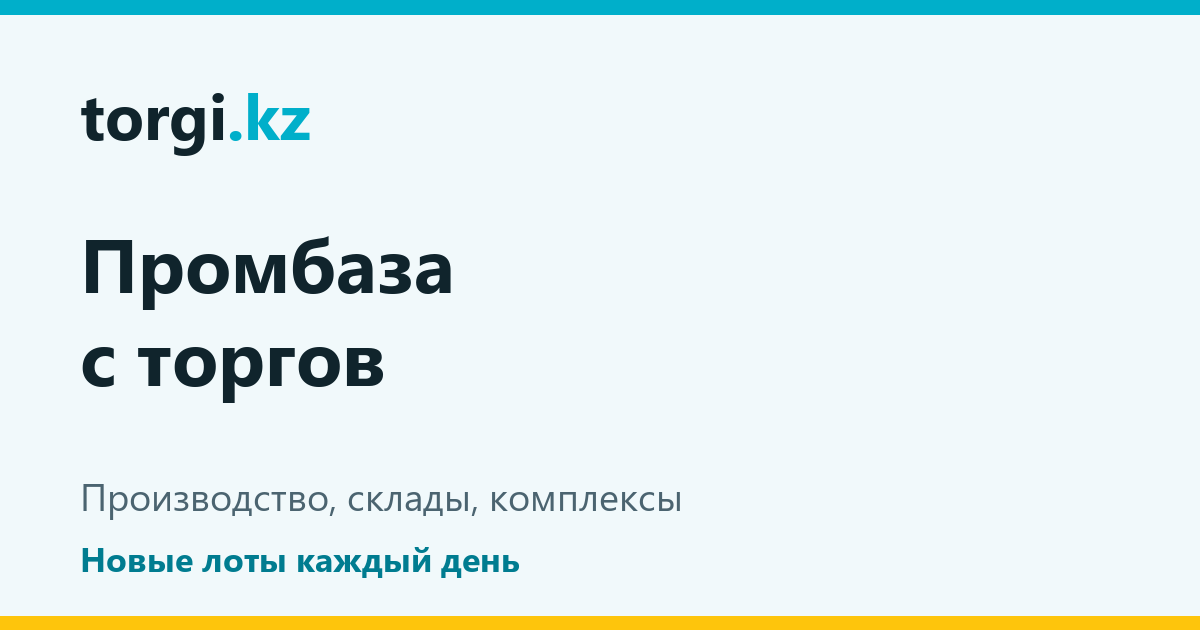
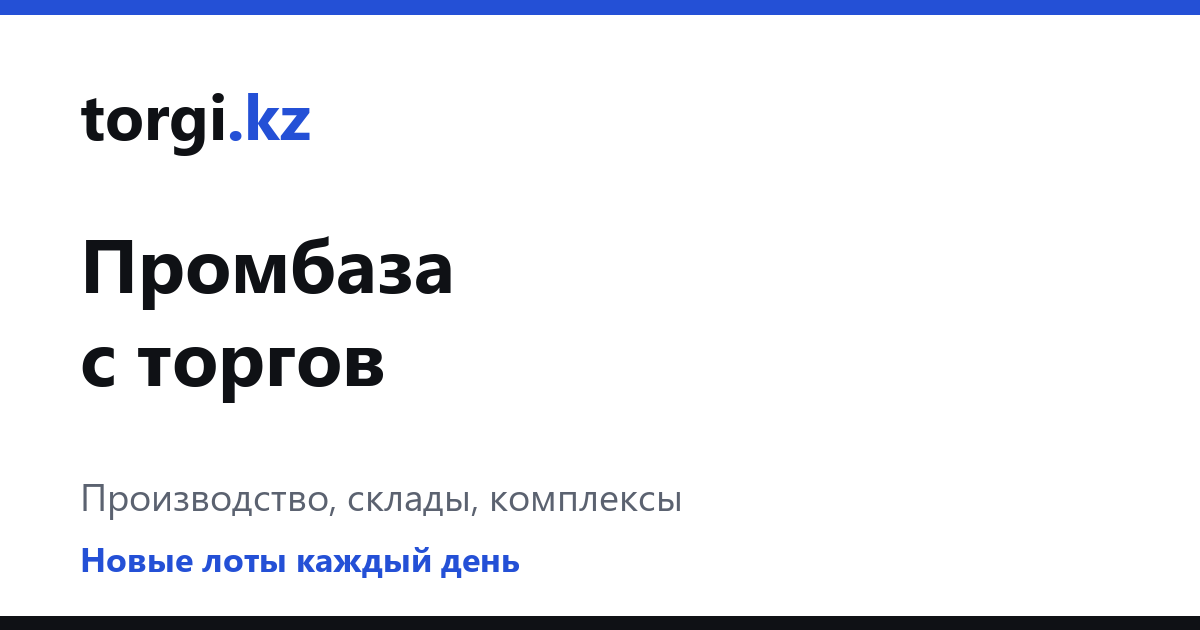
Палитра «монохром и кобальт»: чёрные кнопки, кобальтовые ссылки и бейджи, красный для снижения цены

diff --git a/web/src/app/page.tsx b/web/src/app/page.tsx
@@ -50,7 +50,7 @@ export default function Home() {
             <input
               name="q"
               placeholder="Город или улица"
-              className="flex-1 rounded-[10px] border border-border bg-white px-4 py-3 text-foreground shadow-card outline-none placeholder:text-muted focus:border-brand focus:ring-2 focus:ring-brand/20"
+              className="flex-1 rounded-[10px] border border-border bg-white px-4 py-3 text-foreground shadow-card outline-none placeholder:text-muted focus:border-brand-ink focus:ring-2 focus:ring-brand-ink/20"
             />
             <button className="rounded-[10px] bg-brand px-6 py-3 font-semibold text-white hover:bg-brand-hover">
               Найти
@@ -61,7 +61,7 @@ export default function Home() {
               <Link
                 key={c.id}
                 href={`/lots/?category=${c.id}`}
-                className="rounded-full border border-border bg-white px-4 py-1.5 text-sm text-foreground hover:border-brand hover:text-brand-ink"
+                className="rounded-full border border-border bg-white px-4 py-1.5 text-sm text-foreground hover:border-brand-ink hover:text-brand-ink"
               >
                 {CATEGORY_PLURAL[c.id] ?? c.title} <span className="text-muted">{c.count}</span>
               </Link>
@@ -79,9 +79,9 @@ export default function Home() {
           <div className="grid grid-cols-1 gap-3 sm:grid-cols-2 lg:grid-cols-3">
             {quick.map((q) => (
               <Link key={q.query} href={`/lots/?${q.query}`}
-                    className="flex items-center justify-between gap-3 rounded-xl border border-border bg-surface p-4 hover:border-brand/40">
+                    className="flex items-center justify-between gap-3 rounded-xl border border-border bg-surface p-4 hover:border-brand-ink/40">
                 <span className="font-medium">{q.title}</span>
-                <span className="rounded-full bg-brand/10 px-2.5 py-0.5 text-sm font-semibold text-brand-ink">{q.count}</span>
+                <span className="rounded-full bg-brand-ink/10 px-2.5 py-0.5 text-sm font-semibold text-brand-ink">{q.count}</span>
               </Link>
             ))}
           </div>
@@ -125,7 +125,7 @@ export default function Home() {
             <Link
               key={s.id}
               href={`/lots/?source=${s.id}`}
-              className="rounded-xl border border-border bg-surface p-4 hover:border-brand/40"
+              className="rounded-xl border border-border bg-surface p-4 hover:border-brand-ink/40"
             >
               <div className="text-sm font-semibold">{s.title}</div>
               <div className="mt-1 text-2xl font-bold text-brand-ink">{s.count}</div>

diff --git a/web/src/app/globals.css b/web/src/app/globals.css
@@ -1,20 +1,21 @@
 @import "tailwindcss";
 
-/* Палитра общая с ipoteka24.kz: бирюза и золото флага Казахстана, тёмный сине-зелёный текст. */
+/* Палитра «монохром и кобальт»: почти чёрный текст и кнопки, кобальт — ссылки, «.kz» и бейджи,
+   красный — только «цена снижена» и предупреждения. Светло-серая подложка, белые карточки. */
 :root {
-  --background: #f1f9fb;
+  --background: #f6f7f9;
   --surface: #ffffff;
-  --surface-2: #e9f6f9;
-  --foreground: #10242c;
-  --muted: #5a6b72;
-  --border: #d2e6ec;
-  --brand: #00afca; /* бирюза: кнопки, «.kz» в логотипе, акценты */
-  --brand-hover: #0092aa;
-  --brand-ink: #007c90; /* бирюза для текста и ссылок — читается на белом */
-  --accent: #fec50c; /* золото: плашки «цена снижена», выделения */
-  --accent-ink: #957200; /* золото для текста на светлом фоне */
-  --success: #0a8f3c;
-  --shadow: 0 10px 30px rgba(16, 60, 80, 0.1);
+  --surface-2: #eef0f3;
+  --foreground: #0f1115;
+  --muted: #6b6f78;
+  --border: #e4e6ea;
+  --brand: #0f1115; /* основные кнопки */
+  --brand-hover: #2b2f37;
+  --brand-ink: #2450d6; /* кобальт: ссылки, «.kz», бейджи, фокус */
+  --accent: #d93036; /* красный: плашка «−N%», счётчик избранного */
+  --accent-ink: #b4282d;
+  --success: #1f7a4d;
+  --shadow: 0 8px 24px rgba(15, 17, 21, 0.08);
 }
 
 @theme inline {
@@ -39,17 +40,14 @@ body {
   color: var(--foreground);
 }
 
-/* Фон главного блока — как на ipoteka24.kz: мягкие пятна бирюзы и золота на белом */
+/* Фон главного блока — ровный белый, без пятен */
 .hero-bg {
-  background:
-    radial-gradient(900px 420px at 82% -10%, rgba(0, 175, 202, 0.18), transparent),
-    radial-gradient(760px 420px at 0% 25%, rgba(254, 197, 12, 0.16), transparent),
-    linear-gradient(160deg, #f1f9fb, #ffffff);
+  background: #ffffff;
 }
 
 .field {
   @apply w-full rounded-lg border border-border bg-surface px-3 py-2 text-sm outline-none
-    focus:border-brand focus:ring-2 focus:ring-brand/20;
+    focus:border-brand-ink focus:ring-2 focus:ring-brand-ink/20;
 }
 
 .label {

diff --git a/web/src/components/DetailsView.tsx b/web/src/components/DetailsView.tsx
@@ -56,7 +56,7 @@ export function LotDetailsView({ details, isAuction, note }: {
         )}
         {details.lat && details.lon ? (
           <a href={`https://2gis.kz/geo/${details.lon},${details.lat}`} target="_blank" rel="noopener noreferrer"
-             className="flex-1 rounded-lg border border-border px-4 py-3 text-center text-sm font-medium hover:border-brand/40">
+             className="flex-1 rounded-lg border border-border px-4 py-3 text-center text-sm font-medium hover:border-brand-ink/40">
             Показать на карте 2ГИС
           </a>
         ) : null}
@@ -70,8 +70,8 @@ export function LotDetailsView({ details, isAuction, note }: {
             {documents.map((doc) => (
               <li key={doc.url}>
                 <a href={doc.url} target="_blank" rel="noopener noreferrer"
-                   className="group flex items-start gap-2 rounded-lg border border-border px-3 py-2 hover:border-brand/50">
-                  <svg aria-hidden viewBox="0 0 24 24" className="mt-0.5 h-4 w-4 flex-none text-brand" fill="none" stroke="currentColor" strokeWidth="2">
+                   className="group flex items-start gap-2 rounded-lg border border-border px-3 py-2 hover:border-brand-ink/50">
+                  <svg aria-hidden viewBox="0 0 24 24" className="mt-0.5 h-4 w-4 flex-none text-brand-ink" fill="none" stroke="currentColor" strokeWidth="2">
                     <path d="M14 3H7a2 2 0 0 0-2 2v14a2 2 0 0 0 2 2h10a2 2 0 0 0 2-2V8z" /><path d="M14 3v5h5" />
                   </svg>
                   <span className="flex-1 group-hover:text-brand-ink">{doc.title}</span>
@@ -117,7 +117,7 @@ export function LockedDetails({ message, children }: { message?: React.ReactNode
         <div className="h-4 w-3/4 rounded bg-border" />
         <div className="h-4 w-1/2 rounded bg-border" />
         <div className="h-4 w-2/3 rounded bg-border" />
-        <div className="h-10 w-full rounded-lg bg-brand/30" />
+        <div className="h-10 w-full rounded-lg bg-brand-ink/30" />
         <div className="h-4 w-5/6 rounded bg-border" />
         <div className="h-4 w-3/5 rounded bg-border" />
       </div>

diff --git a/web/src/app/lots/[id]/page.tsx b/web/src/app/lots/[id]/page.tsx
@@ -89,7 +89,7 @@ export default async function LotPage({ params }: PageProps<"/lots/[id]">) {
       )}
 
       {lot.duplicate_of && (
-        <div className="mt-4 rounded-lg border border-brand/30 bg-brand/5 p-3 text-sm">
+        <div className="mt-4 rounded-lg border border-brand-ink/30 bg-brand-ink/5 p-3 text-sm">
           Этот же объект (совпадает кадастровый номер) продаётся и у другого источника —{" "}
           <Link href={`/lots/${lot.duplicate_of}/`} className="font-medium text-brand-ink">смотреть основное объявление</Link>.
         </div>
@@ -158,7 +158,7 @@ export default async function LotPage({ params }: PageProps<"/lots/[id]">) {
               </div>
             )}
             {stale && (
-              <div className="mt-3 rounded-lg bg-accent/15 p-3 text-sm text-accent-ink">
+              <div className="mt-3 rounded-lg bg-surface-2 p-3 text-sm text-foreground">
                 В продаже с {formatDate(lot.listed_at)} — объект давно не продаётся, уместно торговаться.
               </div>
             )}
@@ -177,7 +177,7 @@ export default async function LotPage({ params }: PageProps<"/lots/[id]">) {
               <FavoriteButton id={lot.id} variant="button" />
               {lot.status === "active" && (
                 <a href={watchLotLink(lot.id)} target="_blank" rel="noopener noreferrer"
-                   className="flex w-full items-center justify-center gap-2 rounded-lg border border-border px-4 py-2.5 text-sm font-medium hover:border-brand/40">
+                   className="flex w-full items-center justify-center gap-2 rounded-lg border border-border px-4 py-2.5 text-sm font-medium hover:border-brand-ink/40">
                   🔔 Следить за ценой в Telegram
                 </a>
               )}

diff --git a/web/src/components/LotCard.tsx b/web/src/components/LotCard.tsx
@@ -19,7 +19,7 @@ import { LotImage } from "./LotImage";
 export function Badge({ children, tone = "neutral" }: { children: React.ReactNode; tone?: "neutral" | "brand" | "accent" | "success" }) {
   const tones = {
     neutral: "bg-background text-muted",
-    brand: "bg-brand/10 text-brand-ink",
+    brand: "bg-brand-ink/10 text-brand-ink",
     accent: "bg-accent/15 text-accent-ink",
     success: "bg-success/10 text-success",
   };
@@ -32,7 +32,7 @@ export function LotCard({ lot }: { lot: Lot }) {
   return (
     <Link
       href={`/lots/${lot.id}/`}
-      className="group flex flex-col overflow-hidden rounded-xl border border-border bg-surface transition hover:border-brand/50 hover:shadow-card"
+      className="group flex flex-col overflow-hidden rounded-xl border border-border bg-surface transition hover:border-brand-ink/50 hover:shadow-card"
     >
       <div className="relative aspect-[4/3] bg-background">
         <LotImage src={lot.image} category={lot.category} alt={lot.headline} className="h-full w-full object-cover" />
@@ -41,7 +41,7 @@ export function LotCard({ lot }: { lot: Lot }) {
             {CATEGORY_LABELS[lot.category] ?? lot.category}
           </span>
           {lot.price_drop_pct ? (
-            <span className="rounded-md bg-accent px-2 py-0.5 text-xs font-semibold text-foreground">
+            <span className="rounded-md bg-accent px-2 py-0.5 text-xs font-semibold text-white">
               −{lot.price_drop_pct}%
             </span>
           ) : null}

diff --git a/web/src/components/Catalog.tsx b/web/src/components/Catalog.tsx
@@ -37,7 +37,7 @@ function ParkingGroupCard({ group }: { group: ParkingGroup }) {
   return (
     <Link
       href={`/lots/?category=parking&q=${encodeURIComponent(group.base)}`}
-      className="group flex flex-col overflow-hidden rounded-xl border border-border bg-surface transition hover:border-brand/50 hover:shadow-card"
+      className="group flex flex-col overflow-hidden rounded-xl border border-border bg-surface transition hover:border-brand-ink/50 hover:shadow-card"
     >
       <div className="relative aspect-[4/3] bg-background">
         <LotImage src={first.image} category="parking" alt={group.base} className="h-full w-full object-cover" />
@@ -111,7 +111,7 @@ export function Catalog({ meta, initial }: { meta: Meta; initial: Lot[] }) {
         <div className="flex flex-wrap gap-2">
           {code && (
             <a href={botLink(code)} target="_blank" rel="noopener noreferrer"
-               className="rounded-lg border border-brand/40 bg-brand/5 px-3 py-2 text-sm font-medium text-brand-ink hover:bg-brand/10"
+               className="rounded-lg border border-brand-ink/40 bg-brand-ink/5 px-3 py-2 text-sm font-medium text-brand-ink hover:bg-brand-ink/10"
                title="Бот пришлёт новые объекты по этим фильтрам">
               🔔 Сообщать о новых в Telegram
             </a>

diff --git a/web/src/components/AccountPanel.tsx b/web/src/components/AccountPanel.tsx
@@ -54,7 +54,7 @@ export function AccountPanel() {
               Сегодня осталось бесплатных просмотров: <b>{me.remaining_today}</b> из {me.free_per_day}.
               Лимит обновляется каждый день в 00:00 по Алматы.
             </p>
-            <div className="mt-4 rounded-lg bg-brand/5 p-4">
+            <div className="mt-4 rounded-lg bg-brand-ink/5 p-4">
               <div className="font-semibold text-brand-ink">Подписка torgi.kz</div>
               <ul className="mt-2 list-inside list-disc text-sm text-muted">
                 <li>полные данные всех объектов без дневного лимита</li>

diff --git a/web/src/components/FavoriteButton.tsx b/web/src/components/FavoriteButton.tsx
@@ -20,7 +20,7 @@ export function FavoriteButton({ id, variant = "icon" }: { id: number; variant?:
     return (
       <button type="button" onClick={onClick} aria-pressed={active}
               className={`flex w-full items-center justify-center gap-2 rounded-lg border px-4 py-2.5 text-sm font-medium ${
-                active ? "border-accent bg-accent/15 text-accent-ink" : "border-border hover:border-brand/40"}`}>
+                active ? "border-accent bg-accent/15 text-accent-ink" : "border-border hover:border-brand-ink/40"}`}>
         {heart}
         {active ? "В избранном" : "Добавить в избранное"}
       </button>

diff --git a/web/src/app/layout.tsx b/web/src/app/layout.tsx
@@ -41,7 +41,7 @@ export default function RootLayout({ children }: LayoutProps<"/">) {
         <header className="border-b border-border bg-surface">
           <div className="mx-auto flex max-w-7xl flex-wrap items-center gap-x-8 gap-y-2 px-4 py-3">
             <Link href="/" className="text-xl font-bold tracking-tight text-foreground">
-              torgi<span className="text-brand">.kz</span>
+              torgi<span className="text-brand-ink">.kz</span>
             </Link>
             <nav className="flex flex-wrap gap-x-5 gap-y-1 text-sm font-medium text-muted">
               {NAV.map((item) => (

diff --git a/web/src/components/HowToBuy.tsx b/web/src/components/HowToBuy.tsx
@@ -59,7 +59,7 @@ export function HowToBuy({ origin, saleType, source }: { origin: string; saleTyp
       <ol className="space-y-2 text-sm">
         {g.steps.map((s, i) => (
           <li key={i} className="flex gap-3">
-            <span className="flex h-6 w-6 flex-none items-center justify-center rounded-full bg-brand/10 text-xs font-semibold text-brand-ink">
+            <span className="flex h-6 w-6 flex-none items-center justify-center rounded-full bg-brand-ink/10 text-xs font-semibold text-brand-ink">
               {i + 1}
             </span>
             <span className="pt-0.5">{s}</span>

diff --git a/web/src/components/TelegramCta.tsx b/web/src/components/TelegramCta.tsx
@@ -9,7 +9,7 @@ export function TelegramCta({ compact = false }: { compact?: boolean }) {
       href={FEATURES.telegramUrl}
       target="_blank"
       rel="noopener noreferrer"
-      className={`block rounded-xl border border-brand/20 bg-brand/5 hover:border-brand/40 ${compact ? "p-4" : "p-5"}`}
+      className={`block rounded-xl border border-brand-ink/20 bg-brand-ink/5 hover:border-brand-ink/40 ${compact ? "p-4" : "p-5"}`}
     >
       <div className="font-semibold text-brand-ink">Новые лоты — в Telegram</div>
       <p className="mt-1 text-sm text-muted">

diff --git a/web/src/app/podborki/[slug]/page.tsx b/web/src/app/podborki/[slug]/page.tsx
@@ -102,7 +102,7 @@ export default async function CollectionPage({ params }: PageProps<"/podborki/[s
               <Link
                 key={x.slug}
                 href={`/podborki/${x.slug}/`}
-                className="rounded-full border border-border bg-surface px-3 py-1 text-sm hover:border-brand hover:text-brand-ink"
+                className="rounded-full border border-border bg-surface px-3 py-1 text-sm hover:border-brand-ink hover:text-brand-ink"
               >
                 {x.title} <span className="text-muted">{x.count}</span>
               </Link>
